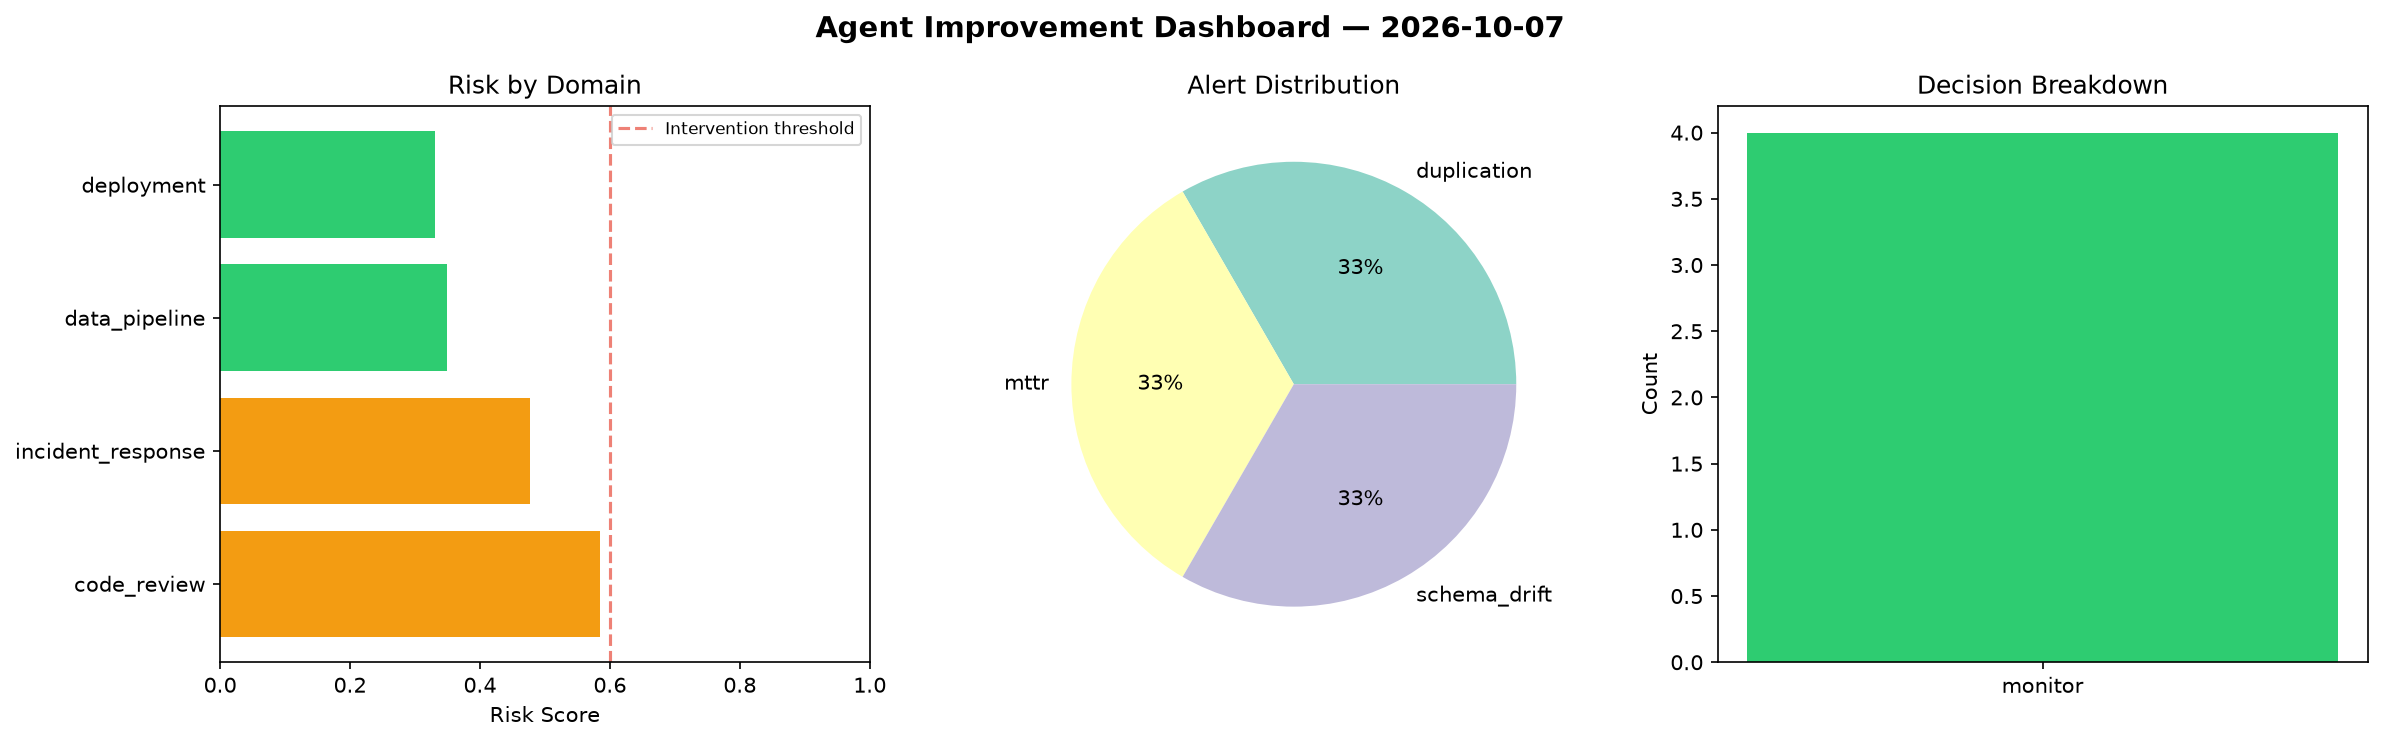
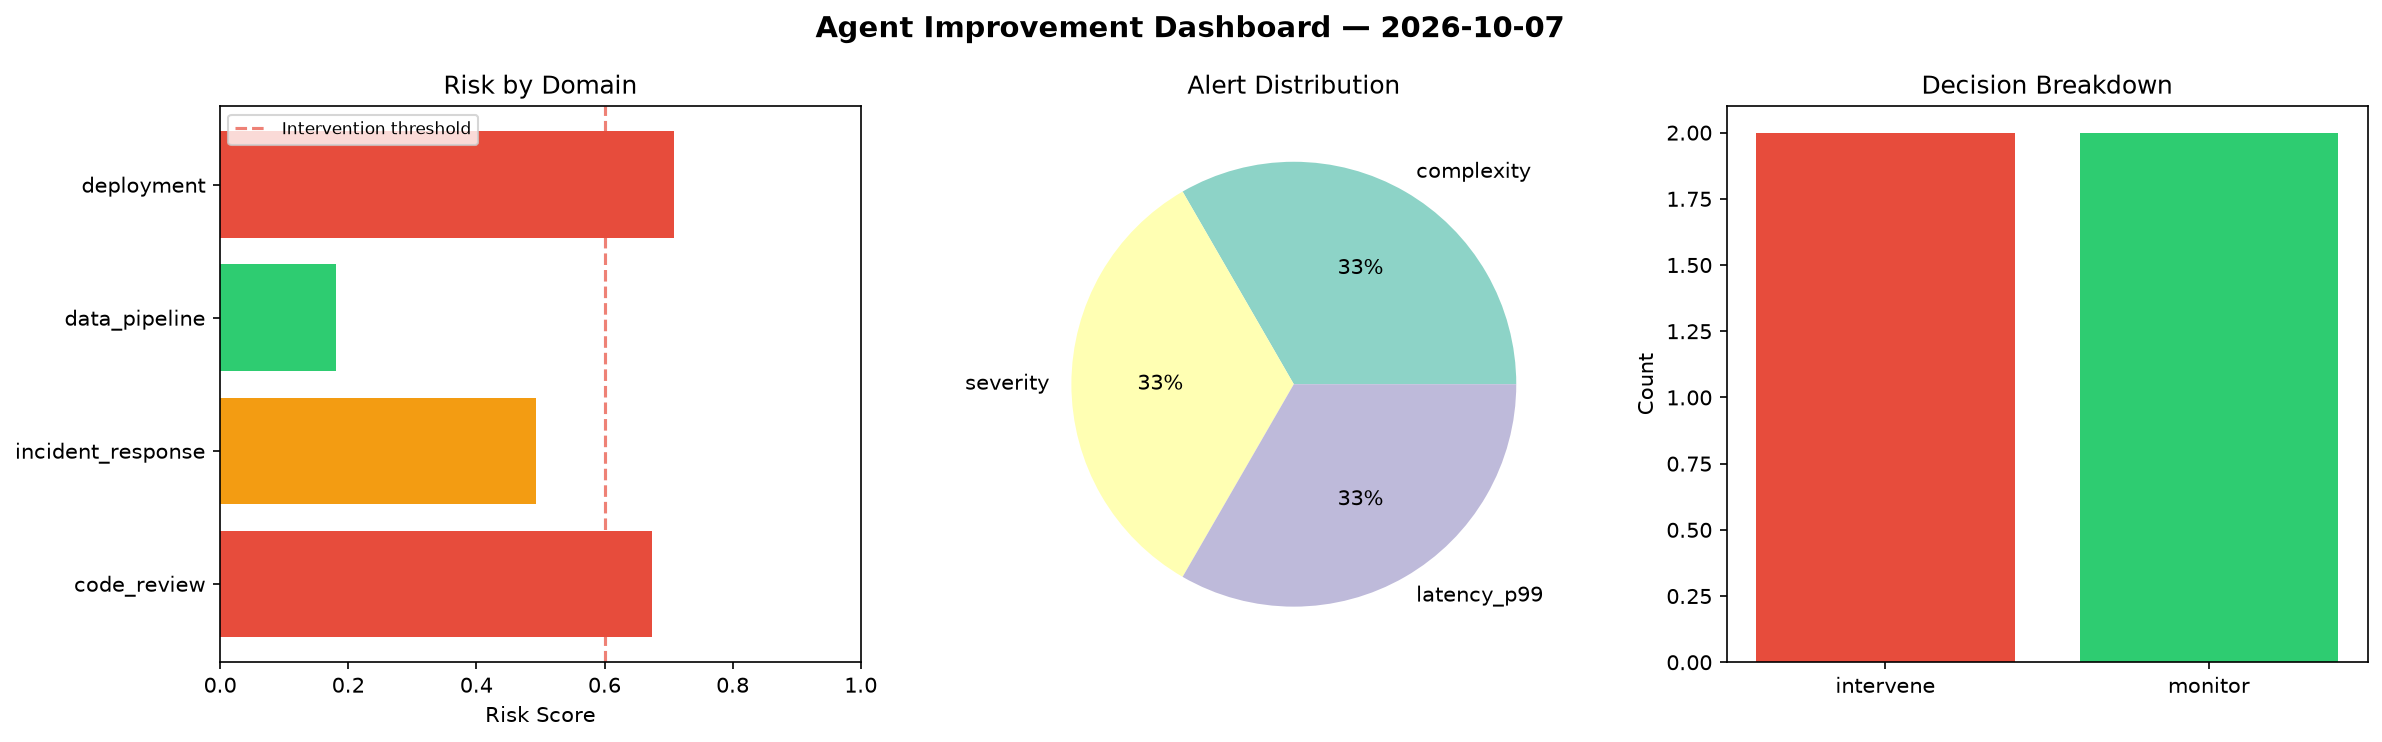
agent-improvement: daily cycle 2026-10-07T15:33

diff --git a/logs/2026-10-07.md b/logs/2026-10-07.md
@@ -1,6 +1,6 @@
 # Agent Improvement Report — 2026-10-07
 
-**Cycle ID:** `4387e2e4` | **Avg Risk:** 0.4355 | **Interventions:** 0/4
+**Cycle ID:** `9d8e6b7c` | **Avg Risk:** 0.514 | **Interventions:** 2/4
 
 ![Dashboard](2026-10-07_dashboard.png)
 
@@ -10,18 +10,18 @@
 
 | Domain | Risk Score | Decision | Alerts |
 |--------|-----------|----------|--------|
-| code_review | 0.584 | monitor | duplication |
-| incident_response | 0.4771 | monitor | mttr |
-| data_pipeline | 0.3494 | monitor | schema_drift |
-| deployment | 0.3315 | monitor | none |
+| code_review | 0.6748 | intervene | complexity |
+| incident_response | 0.4925 | monitor | severity |
+| data_pipeline | 0.1808 | monitor | none |
+| deployment | 0.7078 | intervene | latency_p99 |
 
 ## Delta vs Yesterday
 
 | Domain | Today | Yesterday | Change |
 |--------|-------|-----------|--------|
-| code_review | 0.584 | 0.6777 | 📉 -13.8% |
-| incident_response | 0.4771 | 0.452 | 📈 5.6% |
-| data_pipeline | 0.3494 | 0.5156 | 📉 -32.2% |
-| deployment | 0.3315 | 0.6285 | 📉 -47.3% |
+| code_review | 0.6748 | 0.6777 | 📉 -0.4% |
+| incident_response | 0.4925 | 0.452 | 📈 9.0% |
+| data_pipeline | 0.1808 | 0.5156 | 📉 -64.9% |
+| deployment | 0.7078 | 0.6285 | 📈 12.6% |
 
-**Refinement:** `{'adjustment': 'maintain', 'trend': 'improving', 'window': 4}`
+**Refinement:** `{'adjustment': 'tighten_thresholds', 'trend': 'degrading', 'window': 4}`
